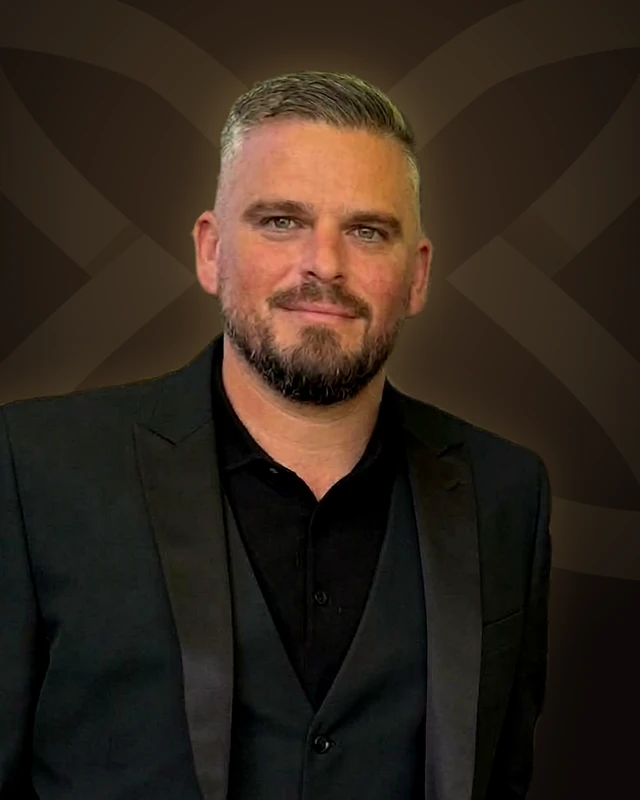
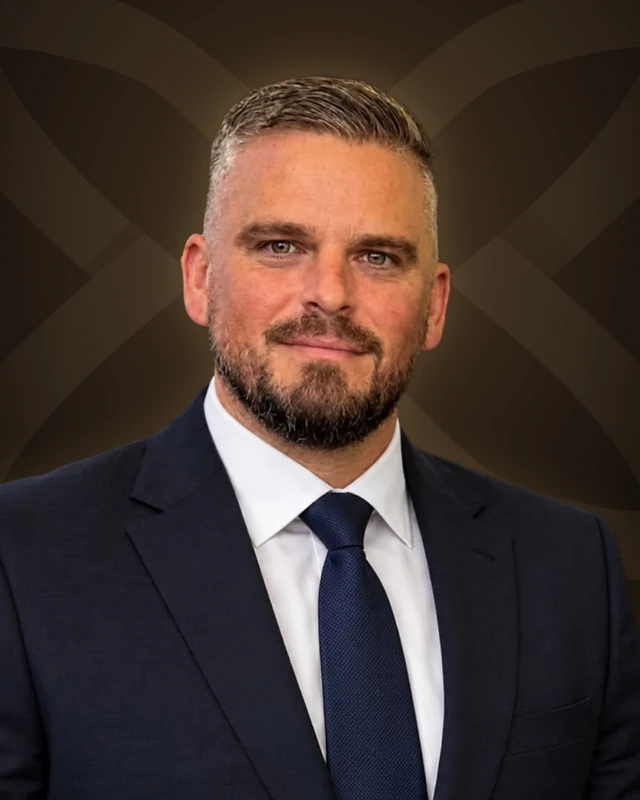
New professional portrait of Nick
Claude-Session: https://claude.ai/code/session_016bSKQUids8j4kjMDyX3Drx

Changed region(s): [[0.1875, 0.0938, 0.9688, 1.0], [0.0, 0.5625, 0.25, 1.0], [0.25, 0.6875, 0.3125, 0.8125]]

diff --git a/index.html b/index.html
@@ -50,7 +50,7 @@
       "addressCountry": "GB"
     },
     "areaServed": ["GB", "Worldwide"],
-    "founder": { "@type": "Person", "name": "Nick Souness", "jobTitle": "Managing Director", "image": "https://nexusrg.co.uk/assets/img/nick-souness-600.webp" },
+    "founder": { "@type": "Person", "name": "Nick Souness", "jobTitle": "Managing Director", "image": "https://nexusrg.co.uk/assets/img/nick-souness-600.webp?v=2" },
     "knowsAbout": ["Marine resourcing", "Commercial resourcing", "Domestic resourcing", "Defence resourcing"]
   }
   </script>
@@ -387,7 +387,7 @@
         <figure class="nick__photo">
           <img class="nick__mark" src="/assets/img/icon-gold.webp" alt="" aria-hidden="true" width="900" height="649" decoding="async">
           <div class="nick__frame">
-            <img class="nick__img" src="/assets/img/nick-souness.webp" srcset="/assets/img/nick-souness-600.webp 640w, /assets/img/nick-souness.webp 1200w" sizes="(max-width: 980px) 88vw, 40vw" alt="Nick Souness, Managing Director of Nexus Resourcing Group" width="1200" height="1500" loading="lazy" decoding="async">
+            <img class="nick__img" src="/assets/img/nick-souness.webp?v=2" srcset="/assets/img/nick-souness-600.webp?v=2 640w, /assets/img/nick-souness.webp?v=2 1200w" sizes="(max-width: 980px) 88vw, 40vw" alt="Nick Souness, Managing Director of Nexus Resourcing Group" width="1200" height="1500" loading="lazy" decoding="async">
           </div>
           <figcaption><strong>Nick Souness</strong> Managing Director</figcaption>
         </figure>
@@ -430,7 +430,7 @@
           <div class="panes">
             <div class="pane is-active" id="pane-call" role="tabpanel" aria-labelledby="tab-call">
               <div class="call">
-                <img class="call__face" src="/assets/img/nick-souness-face.webp" alt="" width="320" height="320" loading="lazy" decoding="async">
+                <img class="call__face" src="/assets/img/nick-souness-face.webp?v=2" alt="" width="320" height="320" loading="lazy" decoding="async">
                 <div>
                   <h3>A 30 minute discovery call with Nick</h3>
                   <p>Pick a time that suits you. Tell Nick about the project, the people you need and when you need them. No obligation.</p>

diff --git a/about/index.html b/about/index.html
@@ -135,7 +135,7 @@
         <figure class="nick__photo">
           <img class="nick__mark" src="/assets/img/icon-gold.webp" alt="" aria-hidden="true" width="900" height="649" decoding="async">
           <div class="nick__frame">
-            <img class="nick__img" src="/assets/img/nick-souness.webp" srcset="/assets/img/nick-souness-600.webp 640w, /assets/img/nick-souness.webp 1200w" sizes="(max-width: 980px) 88vw, 40vw" alt="Nick Souness, Managing Director of Nexus Resourcing Group" width="1200" height="1500" loading="lazy" decoding="async">
+            <img class="nick__img" src="/assets/img/nick-souness.webp?v=2" srcset="/assets/img/nick-souness-600.webp?v=2 640w, /assets/img/nick-souness.webp?v=2 1200w" sizes="(max-width: 980px) 88vw, 40vw" alt="Nick Souness, Managing Director of Nexus Resourcing Group" width="1200" height="1500" loading="lazy" decoding="async">
           </div>
           <figcaption><strong>Nick Souness</strong> Managing Director</figcaption>
         </figure>

diff --git a/tools/pages/home.html b/tools/pages/home.html
@@ -228,7 +228,7 @@
         <figure class="nick__photo">
           <img class="nick__mark" src="/assets/img/icon-gold.webp" alt="" aria-hidden="true" width="900" height="649" decoding="async">
           <div class="nick__frame">
-            <img class="nick__img" src="/assets/img/nick-souness.webp" srcset="/assets/img/nick-souness-600.webp 640w, /assets/img/nick-souness.webp 1200w" sizes="(max-width: 980px) 88vw, 40vw" alt="Nick Souness, Managing Director of Nexus Resourcing Group" width="1200" height="1500" loading="lazy" decoding="async">
+            <img class="nick__img" src="/assets/img/nick-souness.webp?v=2" srcset="/assets/img/nick-souness-600.webp?v=2 640w, /assets/img/nick-souness.webp?v=2 1200w" sizes="(max-width: 980px) 88vw, 40vw" alt="Nick Souness, Managing Director of Nexus Resourcing Group" width="1200" height="1500" loading="lazy" decoding="async">
           </div>
           <figcaption><strong>Nick Souness</strong> Managing Director</figcaption>
         </figure>

diff --git a/tools/pages/about.html b/tools/pages/about.html
@@ -57,7 +57,7 @@
         <figure class="nick__photo">
           <img class="nick__mark" src="/assets/img/icon-gold.webp" alt="" aria-hidden="true" width="900" height="649" decoding="async">
           <div class="nick__frame">
-            <img class="nick__img" src="/assets/img/nick-souness.webp" srcset="/assets/img/nick-souness-600.webp 640w, /assets/img/nick-souness.webp 1200w" sizes="(max-width: 980px) 88vw, 40vw" alt="Nick Souness, Managing Director of Nexus Resourcing Group" width="1200" height="1500" loading="lazy" decoding="async">
+            <img class="nick__img" src="/assets/img/nick-souness.webp?v=2" srcset="/assets/img/nick-souness-600.webp?v=2 640w, /assets/img/nick-souness.webp?v=2 1200w" sizes="(max-width: 980px) 88vw, 40vw" alt="Nick Souness, Managing Director of Nexus Resourcing Group" width="1200" height="1500" loading="lazy" decoding="async">
           </div>
           <figcaption><strong>Nick Souness</strong> Managing Director</figcaption>
         </figure>

diff --git a/contact/index.html b/contact/index.html
@@ -115,7 +115,7 @@
           <div class="panes">
             <div class="pane is-active" id="pane-call" role="tabpanel" aria-labelledby="tab-call">
               <div class="call">
-                <img class="call__face" src="/assets/img/nick-souness-face.webp" alt="" width="320" height="320" loading="lazy" decoding="async">
+                <img class="call__face" src="/assets/img/nick-souness-face.webp?v=2" alt="" width="320" height="320" loading="lazy" decoding="async">
                 <div>
                   <h3>A 30 minute discovery call with Nick</h3>
                   <p>Pick a time that suits you. Tell Nick about the project, the people you need and when you need them. No obligation.</p>

diff --git a/tools/partials/contact-card.html b/tools/partials/contact-card.html
@@ -8,7 +8,7 @@
           <div class="panes">
             <div class="pane is-active" id="pane-call" role="tabpanel" aria-labelledby="tab-call">
               <div class="call">
-                <img class="call__face" src="/assets/img/nick-souness-face.webp" alt="" width="320" height="320" loading="lazy" decoding="async">
+                <img class="call__face" src="/assets/img/nick-souness-face.webp?v=2" alt="" width="320" height="320" loading="lazy" decoding="async">
                 <div>
                   <h3>A 30 minute discovery call with Nick</h3>
                   <p>Pick a time that suits you. Tell Nick about the project, the people you need and when you need them. No obligation.</p>

diff --git a/tools/build.py b/tools/build.py
@@ -88,7 +88,7 @@ SCHEMA = """  <script type="application/ld+json">
       "addressCountry": "GB"
     },
     "areaServed": ["GB", "Worldwide"],
-    "founder": { "@type": "Person", "name": "Nick Souness", "jobTitle": "Managing Director", "image": "https://nexusrg.co.uk/assets/img/nick-souness-600.webp" },
+    "founder": { "@type": "Person", "name": "Nick Souness", "jobTitle": "Managing Director", "image": "https://nexusrg.co.uk/assets/img/nick-souness-600.webp?v=2" },
     "knowsAbout": ["Marine resourcing", "Commercial resourcing", "Domestic resourcing", "Defence resourcing"]
   }
   </script>
